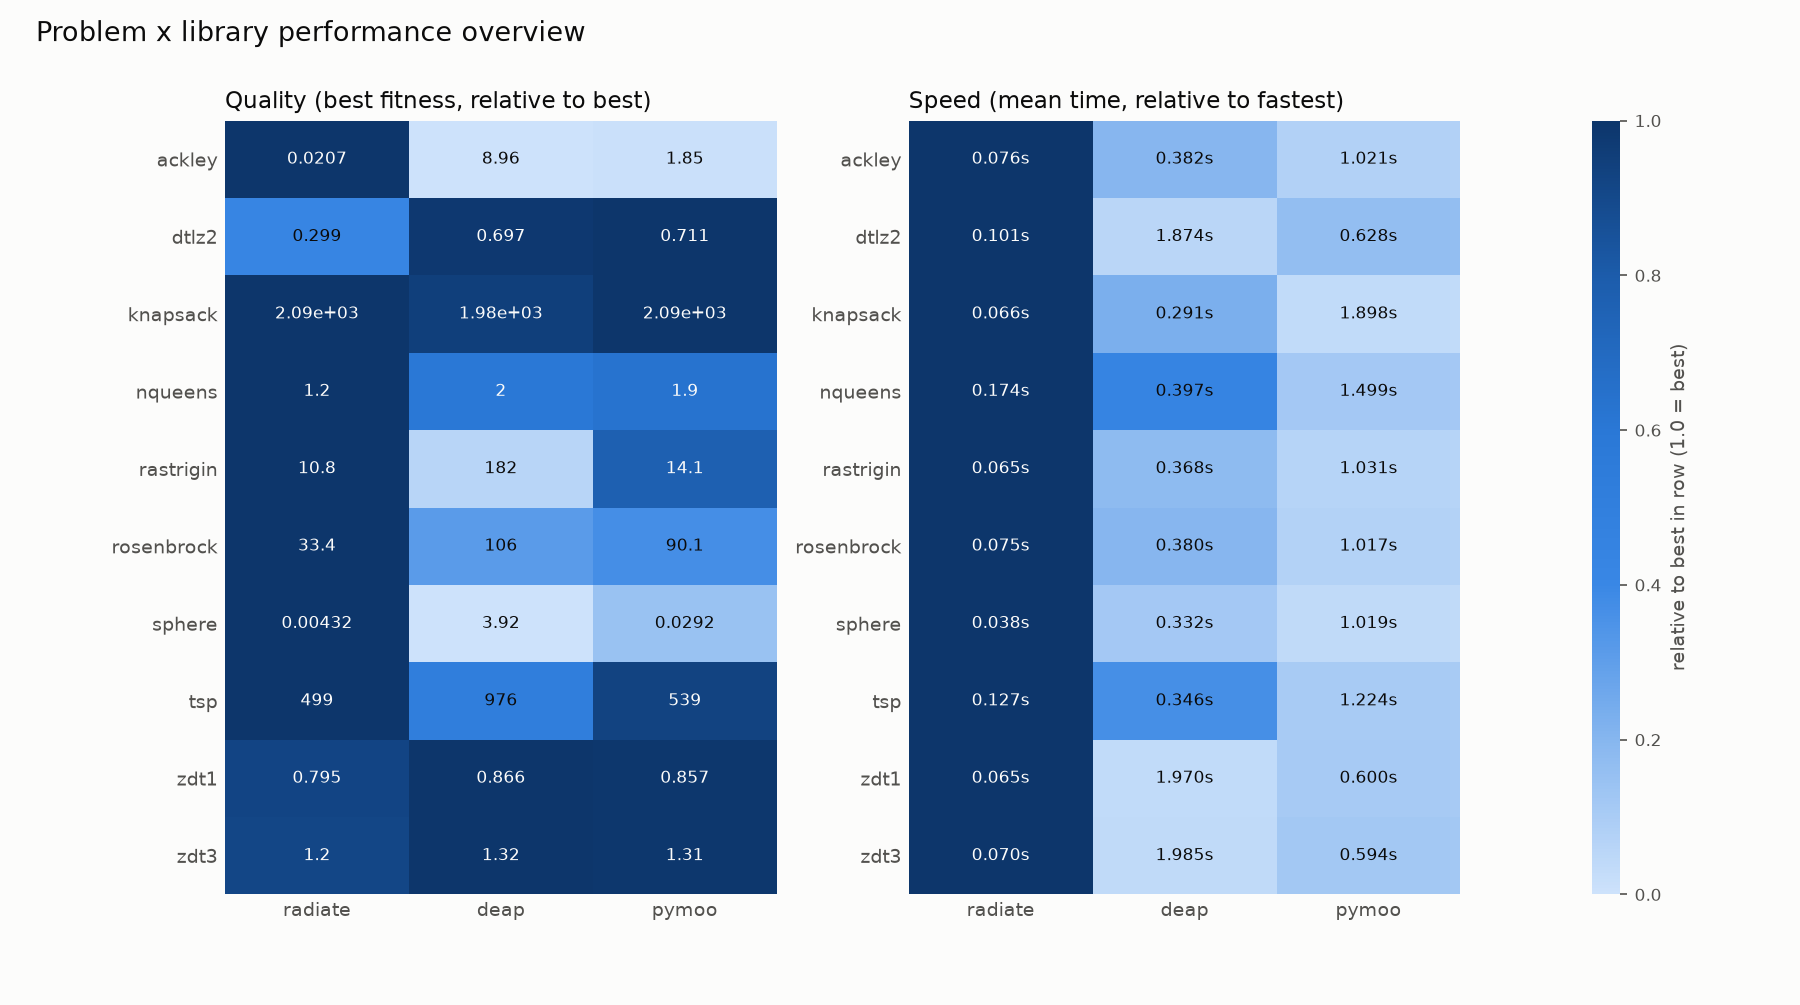
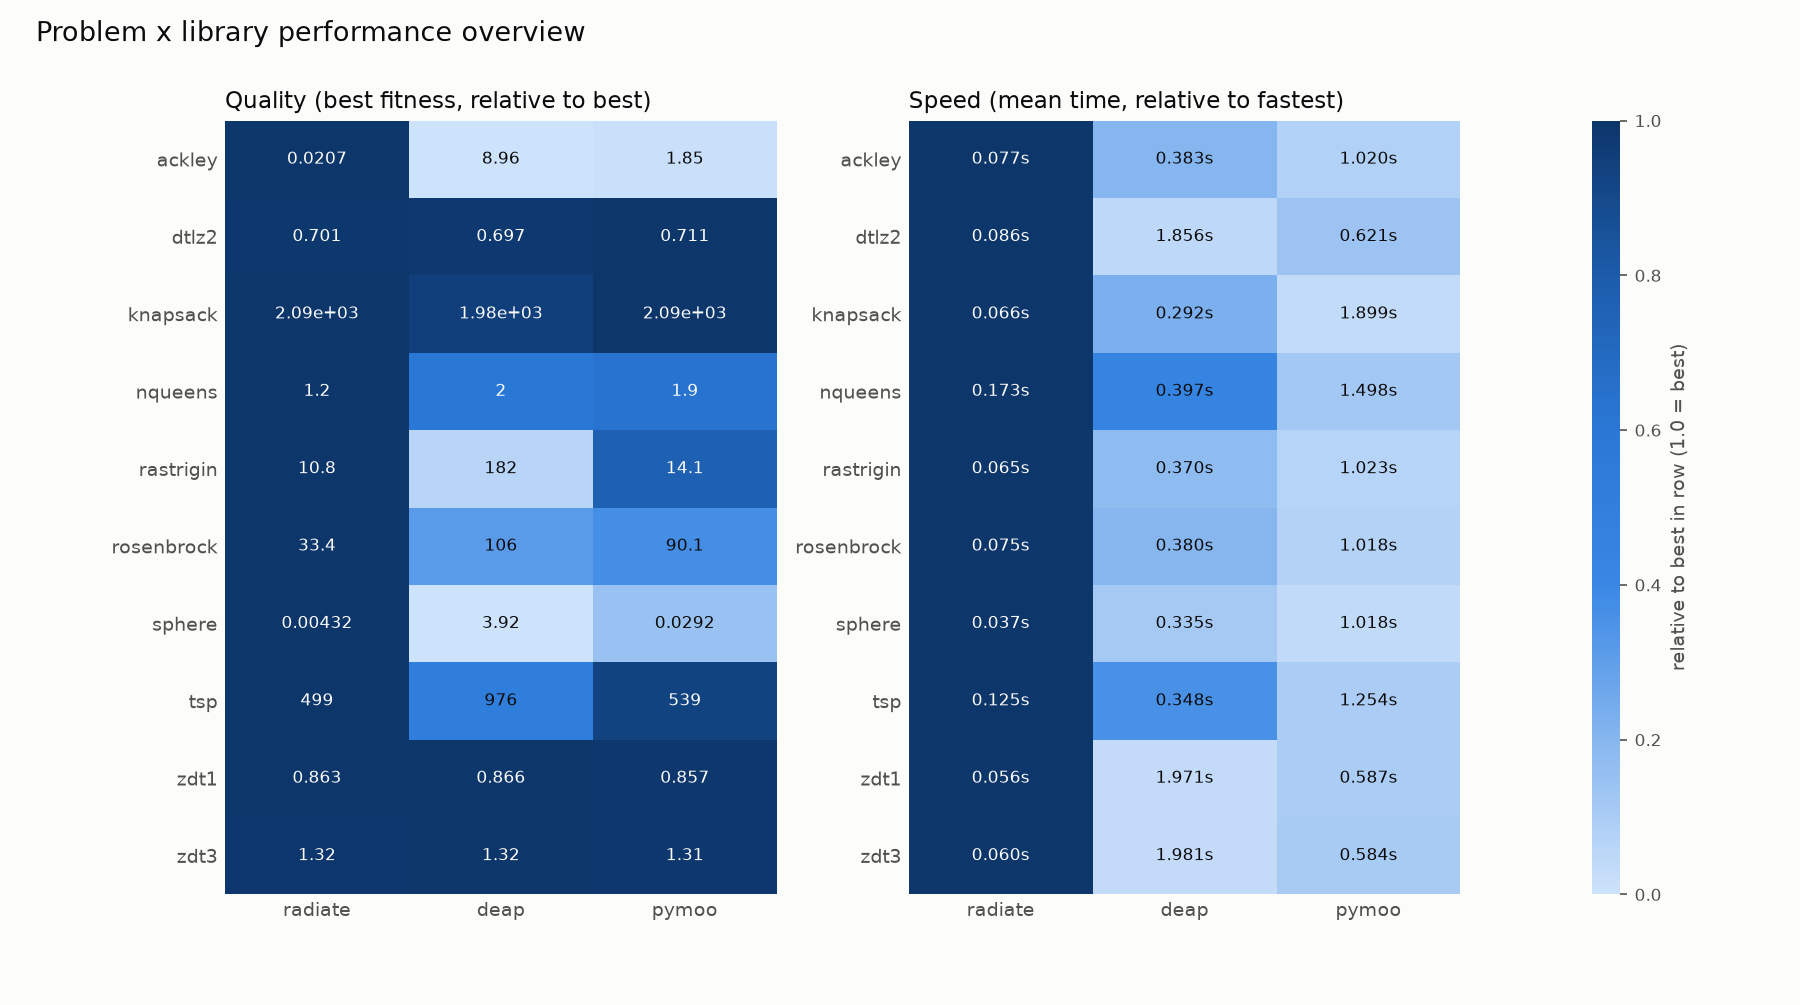
updating moe

Changed region(s): [[0.1244, 0.7095, 0.2489, 0.8945], [0.1244, 0.1851, 0.2489, 0.2776]]

diff --git a/examples/rust/DTLZ/src/main.rs b/examples/rust/DTLZ/src/main.rs
@@ -14,14 +14,16 @@ fn main() {
         .codec(codec)
         .fitness_fn(|geno: Vec<f32>| dtlz_1(&geno))
         .multi_objective(vec![Optimize::Minimize; OBJECTIVES])
-        .offspring_selector(TournamentSelector::new(5))
-        .survivor_selector(NSGA2Selector::new())
+        // NSGA-III for 3+ objectives: crowded-comparison tournament for parents,
+        // reference-point niching for survivors. For 2 objectives use `NSGA2Selector::new()`.
+        .offspring_selector(TournamentNSGA2Selector::new())
+        .survivor_selector(NSGA3Selector::new(12))
+        // A lower offspring fraction keeps more of the already-evaluated front each generation.
         .offspring_fraction(0.5)
-        // .survivor_selector(NSGA3Selector::new(12))
         .front_size(200..250)
         .alter(alters!(
-            SimulatedBinaryCrossover::new(0.9_f32, 25_f32),
-            UniformMutator::new(1.0 / VARIABLES as f32),
+            SimulatedBinaryCrossover::new(0.8_f32, 20_f32),
+            PolynomialMutator::new(0.1, 20.0),
         ))
         .build();
 
@@ -52,7 +54,7 @@ fn plot_front(front: &Front<Phenotype<FloatChromosome<f32>>>) {
     let mut plot = Plot::new();
     plot.set_layout(
         Layout::new()
-            .title("DTLZ7 Pareto Front")
+            .title("DTLZ1 Pareto Front")
             .margin(Margin::new().left(0).right(0).top(0).bottom(0))
             .scene(plotly::layout::LayoutScene::new()),
     );

diff --git a/docs/source/src/rust/examples.rs b/docs/source/src/rust/examples.rs
@@ -136,16 +136,20 @@ fn dtlz1() {
         f
     }
 
-    let codec = FloatCodec::vector(VARIABLES, 0_f32..1_f32).with_bounds(-100.0..100.0);
+    let codec = FloatCodec::vector(VARIABLES, 0_f32..1_f32);
 
     let engine = GeneticEngine::builder()
         .codec(codec)
         .multi_objective(vec![Optimize::Minimize; OBJECTIVES])
-        .offspring_selector(TournamentSelector::new(5))
-        .survivor_selector(NSGA2Selector::new())
+        // NSGA-III for 3+ objectives: crowded-comparison tournament for parents,
+        // reference-point niching for survivors.
+        .offspring_selector(TournamentNSGA2Selector::new())
+        .survivor_selector(NSGA3Selector::new(12))
+        // A lower offspring fraction keeps more of the already-evaluated front each generation.
+        .offspring_fraction(0.5)
         .alter(alters!(
-            SimulatedBinaryCrossover::new(1_f32, 1.0),
-            UniformMutator::new(0.1),
+            SimulatedBinaryCrossover::new(0.8_f32, 20.0),
+            PolynomialMutator::new(0.1, 20.0),
         ))
         .fitness_fn(|geno: Vec<f32>| dtlz_1(&geno))
         .build();

diff --git a/docs/source/src/rust/objectives.rs b/docs/source/src/rust/objectives.rs
@@ -55,10 +55,16 @@ fn main() {
     let engine = GeneticEngine::builder()
         .codec(FloatCodec::vector(10, 0.0..1.0)) // Example codec
         .multi_objective(vec![Optimize::Minimize, Optimize::Maximize])
-        // Tournament selection with Pareto dominance
+        // Crowded-comparison tournament for parents
         .offspring_selector(TournamentNSGA2Selector::new())
-        // NSGA-III with 12 reference directions
-        .survivor_selector(NSGA3Selector::new(12))
+        // Rank + crowding distance for survivors
+        .survivor_selector(NSGA2Selector::new())
+        // Keep more of the already-evaluated front each generation
+        .offspring_fraction(0.5)
+        .alter(alters!(
+            SimulatedBinaryCrossover::new(0.8, 20.0),
+            PolynomialMutator::new(0.1, 20.0),
+        ))
         .front_size(800..900) // Pareto front size range
         .fitness_fn(|genotype: Vec<f32>| {
             vec![

diff --git a/docs/source/src/python/objectives.py b/docs/source/src/python/objectives.py
@@ -61,9 +61,14 @@ engine = (
     .objective(rd.MIN, rd.MAX)  # Minimize obj1, maximize obj2
     .front_range(800, 900)  # Pareto front size range
     .select(
-        offspring=rd.Select.tournament_nsga2(k=3),
-        survivor=rd.Select.nsga3(points=12),  # 12 reference directions for niching
+        offspring=rd.Select.tournament_nsga2(),  # crowded-comparison tournament for parents
+        survivor=rd.Select.nsga2(),  # rank + crowding distance for survivors
+        frac=0.5,  # keep more of the already-evaluated front each generation
     )  # Set MO selectors
+    .alter(
+        rd.Cross.sbx(0.8, 20.0),  # Simulated Binary Crossover
+        rd.Mutate.polynomial(0.1, 20.0),  # Polynomial Mutation
+    )
     # ... other parameters ...
 )
 # --8<-- [end:multi_objective_selectors]

diff --git a/docs/source/src/python/examples_showcase.py b/docs/source/src/python/examples_showcase.py
@@ -138,10 +138,16 @@ engine = (
     .fitness(dtlz1_fitness_fn)
     .objective(rd.MIN, rd.MIN, rd.MIN)
     .front_range(100, 150)
-    .select(rd.Select.tournament(k=5), rd.Select.nsga3(points=12))
+    # NSGA-III for 3+ objectives: crowded-comparison tournament for parents, reference-point
+    # niching for survivors. A lower offspring fraction keeps more of the evaluated front.
+    .select(
+        rd.Select.tournament_nsga2(),
+        rd.Select.nsga3(points=12),
+        frac=0.5,
+    )
     .alter(
-        rd.Cross.sbx(1.0, 2.0),  # <- Simulated Binary Crossover
-        rd.Mutate.uniform(0.1),
+        rd.Cross.sbx(0.8, 20.0),  # <- Simulated Binary Crossover
+        rd.Mutate.polynomial(0.1, 20.0),  # <- Polynomial Mutation
     )
     .limit(rd.Limit.generations(2000))
 )

diff --git a/examples/python/dtlz.py b/examples/python/dtlz.py
@@ -44,10 +44,16 @@ engine = (
     .fitness(dtlz_1)
     .objective(rd.MIN, rd.MIN, rd.MIN)
     .front_range(100, 150)
-    .select(rd.Select.tournament(k=5), rd.Select.nsga3(points=12))
+    # NSGA-III for 3+ objectives: crowded-comparison tournament for parents, reference-point
+    # niching for survivors. A lower offspring fraction keeps more of the evaluated front.
+    .select(
+        rd.Select.tournament_nsga2(),
+        rd.Select.nsga3(points=12),
+        frac=0.5,
+    )
     .alter(
-        rd.Cross.sbx(1.0, 2.0),
-        rd.Mutate.uniform(0.1),
+        rd.Cross.sbx(0.8, 20.0),
+        rd.Mutate.polynomial(0.1, 20.0),
     )
     .limit(rd.Limit.generations(2000))
 )

diff --git a/examples/python/zdt.py b/examples/python/zdt.py
@@ -32,8 +32,10 @@ engine = (
     rd.Engine.float(variables, use_numpy=True)
     .fitness(zdt3)
     .objective(rd.MIN, rd.MIN, front_range=(200, 250))
-    .select(rd.Select.tournament(5), rd.Select.nsga3(12))
-    .alter(rd.Cross.sbx(1.0, 2.0), rd.Mutate.uniform(0.1))
+    # NSGA-II: crowded-comparison tournament for parents, rank + crowding distance for survivors.
+    # A lower offspring fraction keeps more of the already-evaluated front each generation.
+    .select(rd.Select.tournament_nsga2(), rd.Select.nsga2(), frac=0.5)
+    .alter(rd.Cross.sbx(0.8, 20.0), rd.Mutate.polynomial(0.1, 20.0))
     .limit(rd.Limit.generations(2000))
 )
 

diff --git a/docs/source/misc/benches.md b/docs/source/misc/benches.md
@@ -37,15 +37,13 @@ Discrete optimization using `usize` precision integers & numpy arrays. `Radiate`
 
 ## Multi-Objective Optimization
 
-Below we can see the convergence of different hypervolume indicators for the `zdt1`, `zdt3`, and `dtlz2` problems. These three are pretty common benchmarks for multi-objective optimization. Although `radiate` surpases the other two libraries in most of the other benchmarks, in terms of multi-objective hypervolume measures, it lags. This is an area I'm actively working on improving!
+Below we can see the convergence of different hypervolume indicators for the `zdt1`, `zdt3`, and `dtlz2` problems. These three are pretty common benchmarks for multi-objective optimization. 
 
 <figure markdown="span">
     ![ZDT1](../../assets/benches/mo_hypervolume.png){ width="600" }
 </figure>
 
 ## Speed
-
-Although `radiate` lags on hypervolume measurements, it is still by far the fastest (~0.07–0.10s vs. 0.6–2.0s for the others) even where it loses on quality.
 
 Below is a log normalized comparison of speed - some problems are just slower to converge so log scale is needed.
 
@@ -65,33 +63,33 @@ And now a raw comparison. Anything left of the black line indicates that `radiat
 
 | problem    | library   |   best_mean |   best_std |   time_mean_s |   time_std_s |   n_trials |
 |:-----------|:----------|------------:|-----------:|--------------:|-------------:|-----------:|
-| ackley     | radiate   |      0.0207 |     0.0106 |        0.0759 |       0.0003 |         10 |
-| ackley     | deap      |      8.9594 |     0.4361 |        0.3816 |       0.0009 |         10 |
-| ackley     | pymoo     |      1.8515 |     0.3751 |        1.0208 |       0.0051 |         10 |
-| dtlz2      | radiate   |      0.2990 |     0.0436 |        0.1007 |       0.0008 |         10 |
-| dtlz2      | deap      |      0.6974 |     0.0061 |        1.8741 |       0.0333 |         10 |
-| dtlz2      | pymoo     |      0.7111 |     0.0056 |        0.6284 |       0.0094 |         10 |
-| knapsack   | radiate   |   2090.0000 |     0.0000 |        0.0662 |       0.0011 |         10 |
-| knapsack   | deap      |   1982.4000 |    35.0498 |        0.2915 |       0.0008 |         10 |
-| knapsack   | pymoo     |   2090.0000 |     0.0000 |        1.8980 |       0.0213 |         10 |
-| nqueens    | radiate   |      1.2000 |     0.6325 |        0.1735 |       0.0017 |         10 |
-| nqueens    | deap      |      2.0000 |     0.4714 |        0.3973 |       0.0012 |         10 |
-| nqueens    | pymoo     |      1.9000 |     0.8756 |        1.4988 |       0.0052 |         10 |
-| rastrigin  | radiate   |     10.8435 |     4.8314 |        0.0651 |       0.0003 |         10 |
-| rastrigin  | deap      |    182.1082 |    14.1792 |        0.3682 |       0.0009 |         10 |
-| rastrigin  | pymoo     |     14.1199 |     3.7540 |        1.0311 |       0.0114 |         10 |
-| rosenbrock | radiate   |     33.4129 |    14.9997 |        0.0750 |       0.0002 |         10 |
-| rosenbrock | deap      |    106.0411 |     4.8883 |        0.3795 |       0.0009 |         10 |
-| rosenbrock | pymoo     |     90.1068 |    23.4850 |        1.0173 |       0.0068 |         10 |
-| sphere     | radiate   |      0.0043 |     0.0019 |        0.0383 |       0.0051 |         10 |
-| sphere     | deap      |      3.9225 |     0.3664 |        0.3320 |       0.0007 |         10 |
-| sphere     | pymoo     |      0.0292 |     0.0061 |        1.0192 |       0.0113 |         10 |
-| tsp        | radiate   |    499.1356 |    12.1659 |        0.1266 |       0.0073 |         10 |
-| tsp        | deap      |    975.7242 |    21.3226 |        0.3455 |       0.0010 |         10 |
-| tsp        | pymoo     |    538.5293 |    54.1085 |        1.2235 |       0.0135 |         10 |
-| zdt1       | radiate   |      0.7949 |     0.0105 |        0.0654 |       0.0014 |         10 |
-| zdt1       | deap      |      0.8658 |     0.0006 |        1.9701 |       0.0039 |         10 |
-| zdt1       | pymoo     |      0.8568 |     0.0056 |        0.5995 |       0.0120 |         10 |
-| zdt3       | radiate   |      1.2043 |     0.0248 |        0.0704 |       0.0005 |         10 |
-| zdt3       | deap      |      1.3227 |     0.0010 |        1.9845 |       0.0108 |         10 |
-| zdt3       | pymoo     |      1.3079 |     0.0044 |        0.5940 |       0.0077 |         10 |
+| ackley     | radiate   |      0.0207 |     0.0106 |        0.0767 |       0.0003 |         10 |
+| ackley     | deap      |      8.9594 |     0.4361 |        0.3832 |       0.0009 |         10 |
+| ackley     | pymoo     |      1.8515 |     0.3751 |        1.0203 |       0.0049 |         10 |
+| dtlz2      | radiate   |      0.7012 |     0.0100 |        0.0858 |       0.0004 |         10 |
+| dtlz2      | deap      |      0.6974 |     0.0061 |        1.8562 |       0.0066 |         10 |
+| dtlz2      | pymoo     |      0.7111 |     0.0056 |        0.6213 |       0.0047 |         10 |
+| knapsack   | radiate   |   2090.0000 |     0.0000 |        0.0662 |       0.0005 |         10 |
+| knapsack   | deap      |   1982.4000 |    35.0498 |        0.2919 |       0.0009 |         10 |
+| knapsack   | pymoo     |   2090.0000 |     0.0000 |        1.8985 |       0.0154 |         10 |
+| nqueens    | radiate   |      1.2000 |     0.6325 |        0.1735 |       0.0021 |         10 |
+| nqueens    | deap      |      2.0000 |     0.4714 |        0.3972 |       0.0008 |         10 |
+| nqueens    | pymoo     |      1.9000 |     0.8756 |        1.4980 |       0.0067 |         10 |
+| rastrigin  | radiate   |     10.8435 |     4.8314 |        0.0654 |       0.0003 |         10 |
+| rastrigin  | deap      |    182.1082 |    14.1792 |        0.3695 |       0.0007 |         10 |
+| rastrigin  | pymoo     |     14.1199 |     3.7540 |        1.0233 |       0.0080 |         10 |
+| rosenbrock | radiate   |     33.4129 |    14.9997 |        0.0745 |       0.0003 |         10 |
+| rosenbrock | deap      |    106.0411 |     4.8883 |        0.3799 |       0.0009 |         10 |
+| rosenbrock | pymoo     |     90.1068 |    23.4850 |        1.0176 |       0.0070 |         10 |
+| sphere     | radiate   |      0.0043 |     0.0019 |        0.0374 |       0.0005 |         10 |
+| sphere     | deap      |      3.9225 |     0.3664 |        0.3347 |       0.0060 |         10 |
+| sphere     | pymoo     |      0.0292 |     0.0061 |        1.0179 |       0.0088 |         10 |
+| tsp        | radiate   |    499.1356 |    12.1659 |        0.1248 |       0.0007 |         10 |
+| tsp        | deap      |    975.7242 |    21.3226 |        0.3484 |       0.0008 |         10 |
+| tsp        | pymoo     |    538.5293 |    54.1085 |        1.2541 |       0.0354 |         10 |
+| zdt1       | radiate   |      0.8628 |     0.0010 |        0.0560 |       0.0003 |         10 |
+| zdt1       | deap      |      0.8658 |     0.0006 |        1.9708 |       0.0042 |         10 |
+| zdt1       | pymoo     |      0.8568 |     0.0056 |        0.5870 |       0.0049 |         10 |
+| zdt3       | radiate   |      1.3161 |     0.0019 |        0.0595 |       0.0002 |         10 |
+| zdt3       | deap      |      1.3227 |     0.0010 |        1.9806 |       0.0037 |         10 |
+| zdt3       | pymoo     |      1.3079 |     0.0044 |        0.5837 |       0.0033 |         10 |

diff --git a/docs/assets/benches/summary.md b/docs/assets/benches/summary.md
@@ -1,32 +1,32 @@
 | problem    | library   |   best_mean |   best_std |   time_mean_s |   time_std_s |   n_trials |
 |:-----------|:----------|------------:|-----------:|--------------:|-------------:|-----------:|
-| ackley     | radiate   |      0.0207 |     0.0106 |        0.0759 |       0.0003 |         10 |
-| ackley     | deap      |      8.9594 |     0.4361 |        0.3816 |       0.0009 |         10 |
-| ackley     | pymoo     |      1.8515 |     0.3751 |        1.0208 |       0.0051 |         10 |
-| dtlz2      | radiate   |      0.2990 |     0.0436 |        0.1007 |       0.0008 |         10 |
-| dtlz2      | deap      |      0.6974 |     0.0061 |        1.8741 |       0.0333 |         10 |
-| dtlz2      | pymoo     |      0.7111 |     0.0056 |        0.6284 |       0.0094 |         10 |
-| knapsack   | radiate   |   2090.0000 |     0.0000 |        0.0662 |       0.0011 |         10 |
-| knapsack   | deap      |   1982.4000 |    35.0498 |        0.2915 |       0.0008 |         10 |
-| knapsack   | pymoo     |   2090.0000 |     0.0000 |        1.8980 |       0.0213 |         10 |
-| nqueens    | radiate   |      1.2000 |     0.6325 |        0.1735 |       0.0017 |         10 |
-| nqueens    | deap      |      2.0000 |     0.4714 |        0.3973 |       0.0012 |         10 |
-| nqueens    | pymoo     |      1.9000 |     0.8756 |        1.4988 |       0.0052 |         10 |
-| rastrigin  | radiate   |     10.8435 |     4.8314 |        0.0651 |       0.0003 |         10 |
-| rastrigin  | deap      |    182.1082 |    14.1792 |        0.3682 |       0.0009 |         10 |
-| rastrigin  | pymoo     |     14.1199 |     3.7540 |        1.0311 |       0.0114 |         10 |
-| rosenbrock | radiate   |     33.4129 |    14.9997 |        0.0750 |       0.0002 |         10 |
-| rosenbrock | deap      |    106.0411 |     4.8883 |        0.3795 |       0.0009 |         10 |
-| rosenbrock | pymoo     |     90.1068 |    23.4850 |        1.0173 |       0.0068 |         10 |
-| sphere     | radiate   |      0.0043 |     0.0019 |        0.0383 |       0.0051 |         10 |
-| sphere     | deap      |      3.9225 |     0.3664 |        0.3320 |       0.0007 |         10 |
-| sphere     | pymoo     |      0.0292 |     0.0061 |        1.0192 |       0.0113 |         10 |
-| tsp        | radiate   |    499.1356 |    12.1659 |        0.1266 |       0.0073 |         10 |
-| tsp        | deap      |    975.7242 |    21.3226 |        0.3455 |       0.0010 |         10 |
-| tsp        | pymoo     |    538.5293 |    54.1085 |        1.2235 |       0.0135 |         10 |
-| zdt1       | radiate   |      0.7949 |     0.0105 |        0.0654 |       0.0014 |         10 |
-| zdt1       | deap      |      0.8658 |     0.0006 |        1.9701 |       0.0039 |         10 |
-| zdt1       | pymoo     |      0.8568 |     0.0056 |        0.5995 |       0.0120 |         10 |
-| zdt3       | radiate   |      1.2043 |     0.0248 |        0.0704 |       0.0005 |         10 |
-| zdt3       | deap      |      1.3227 |     0.0010 |        1.9845 |       0.0108 |         10 |
-| zdt3       | pymoo     |      1.3079 |     0.0044 |        0.5940 |       0.0077 |         10 |
+| ackley     | radiate   |      0.0207 |     0.0106 |        0.0767 |       0.0003 |         10 |
+| ackley     | deap      |      8.9594 |     0.4361 |        0.3832 |       0.0009 |         10 |
+| ackley     | pymoo     |      1.8515 |     0.3751 |        1.0203 |       0.0049 |         10 |
+| dtlz2      | radiate   |      0.7012 |     0.0100 |        0.0858 |       0.0004 |         10 |
+| dtlz2      | deap      |      0.6974 |     0.0061 |        1.8562 |       0.0066 |         10 |
+| dtlz2      | pymoo     |      0.7111 |     0.0056 |        0.6213 |       0.0047 |         10 |
+| knapsack   | radiate   |   2090.0000 |     0.0000 |        0.0662 |       0.0005 |         10 |
+| knapsack   | deap      |   1982.4000 |    35.0498 |        0.2919 |       0.0009 |         10 |
+| knapsack   | pymoo     |   2090.0000 |     0.0000 |        1.8985 |       0.0154 |         10 |
+| nqueens    | radiate   |      1.2000 |     0.6325 |        0.1735 |       0.0021 |         10 |
+| nqueens    | deap      |      2.0000 |     0.4714 |        0.3972 |       0.0008 |         10 |
+| nqueens    | pymoo     |      1.9000 |     0.8756 |        1.4980 |       0.0067 |         10 |
+| rastrigin  | radiate   |     10.8435 |     4.8314 |        0.0654 |       0.0003 |         10 |
+| rastrigin  | deap      |    182.1082 |    14.1792 |        0.3695 |       0.0007 |         10 |
+| rastrigin  | pymoo     |     14.1199 |     3.7540 |        1.0233 |       0.0080 |         10 |
+| rosenbrock | radiate   |     33.4129 |    14.9997 |        0.0745 |       0.0003 |         10 |
+| rosenbrock | deap      |    106.0411 |     4.8883 |        0.3799 |       0.0009 |         10 |
+| rosenbrock | pymoo     |     90.1068 |    23.4850 |        1.0176 |       0.0070 |         10 |
+| sphere     | radiate   |      0.0043 |     0.0019 |        0.0374 |       0.0005 |         10 |
+| sphere     | deap      |      3.9225 |     0.3664 |        0.3347 |       0.0060 |         10 |
+| sphere     | pymoo     |      0.0292 |     0.0061 |        1.0179 |       0.0088 |         10 |
+| tsp        | radiate   |    499.1356 |    12.1659 |        0.1248 |       0.0007 |         10 |
+| tsp        | deap      |    975.7242 |    21.3226 |        0.3484 |       0.0008 |         10 |
+| tsp        | pymoo     |    538.5293 |    54.1085 |        1.2541 |       0.0354 |         10 |
+| zdt1       | radiate   |      0.8628 |     0.0010 |        0.0560 |       0.0003 |         10 |
+| zdt1       | deap      |      0.8658 |     0.0006 |        1.9708 |       0.0042 |         10 |
+| zdt1       | pymoo     |      0.8568 |     0.0056 |        0.5870 |       0.0049 |         10 |
+| zdt3       | radiate   |      1.3161 |     0.0019 |        0.0595 |       0.0002 |         10 |
+| zdt3       | deap      |      1.3227 |     0.0010 |        1.9806 |       0.0037 |         10 |
+| zdt3       | pymoo     |      1.3079 |     0.0044 |        0.5837 |       0.0033 |         10 |

diff --git a/docs/source/objectives.md b/docs/source/objectives.md
@@ -135,7 +135,23 @@ Although, any selector can be used, these are optimized for multi-objective prob
     ```rust
     --8<-- "rust/objectives.rs:multi_objective_selectors"
     ```
-    
+
+---
+
+### Recommended Configuration
+
+For real-valued multi-objective problems, a good starting point is the classic NSGA-II / NSGA-III setup:
+
+| Setting | Recommendation | Why |
+|---|---|---|
+| Offspring selector | Tournament NSGA-II | Picks parents by Pareto rank, then crowding distance. A plain tournament ranks by the first objective only, which pulls the population toward one end of the front. |
+| Survivor selector | NSGA-II for 2 objectives, NSGA-III for 3 or more | NSGA-III's reference-point niching spreads solutions better as the number of objectives grows. With NSGA-III, a population roughly the size of the number of reference points works well (12 partitions over 3 objectives gives 91 points). |
+| Offspring fraction | Around `0.5` | Survivors are selected from the current population before new offspring are evaluated, and offspring always enter the next generation. A lower fraction keeps more of the already-evaluated front each generation, which improves both convergence and spread. |
+| Crossover | Simulated Binary Crossover, distribution index ≈ 20 | The standard real-valued crossover for NSGA-II/III. Higher indices keep children closer to their parents. |
+| Mutation | Polynomial mutation, distribution index ≈ 20 | Makes small, bounded perturbations around the current value. Uniform mutation replaces genes with random values, which repeatedly undoes convergence. |
+
+The selector example above and the [DTLZ1 example](examples.md#dtlz1) use this configuration.
+
 ---
 
 ## Best Practices
